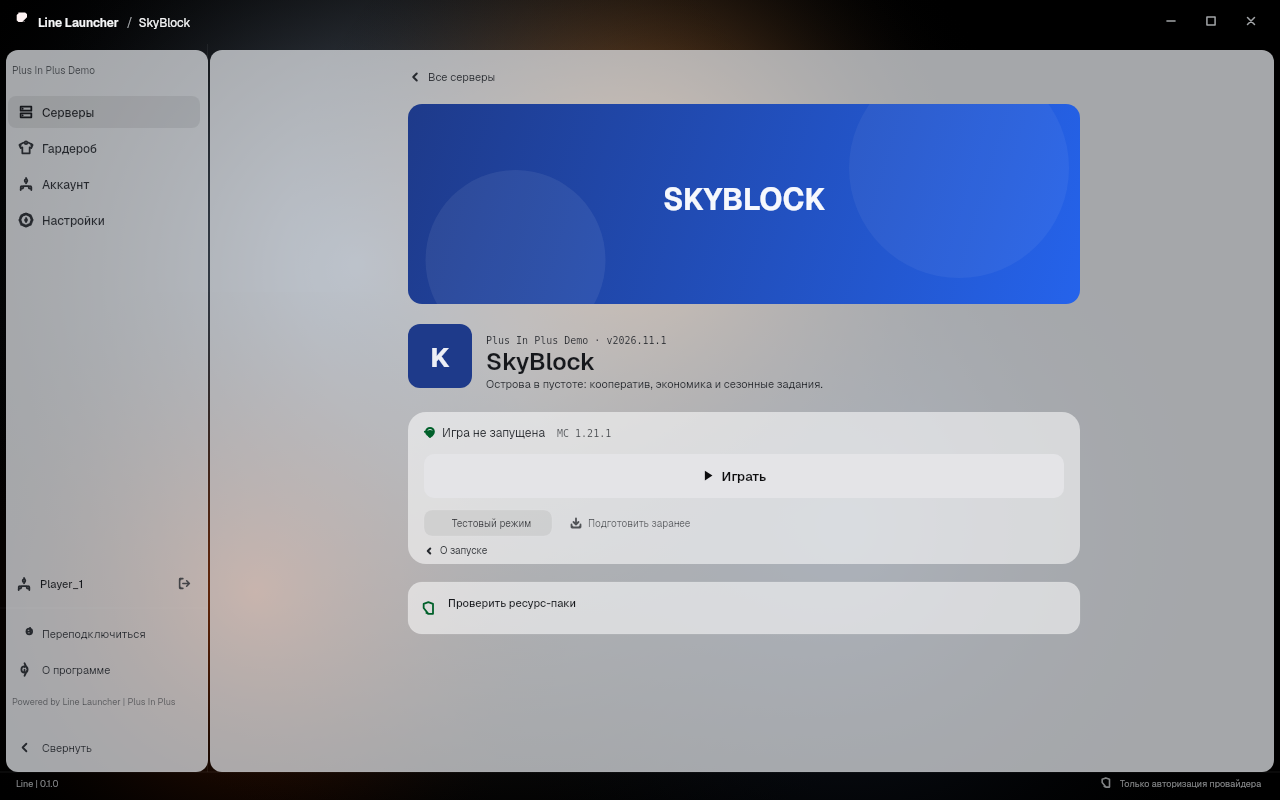
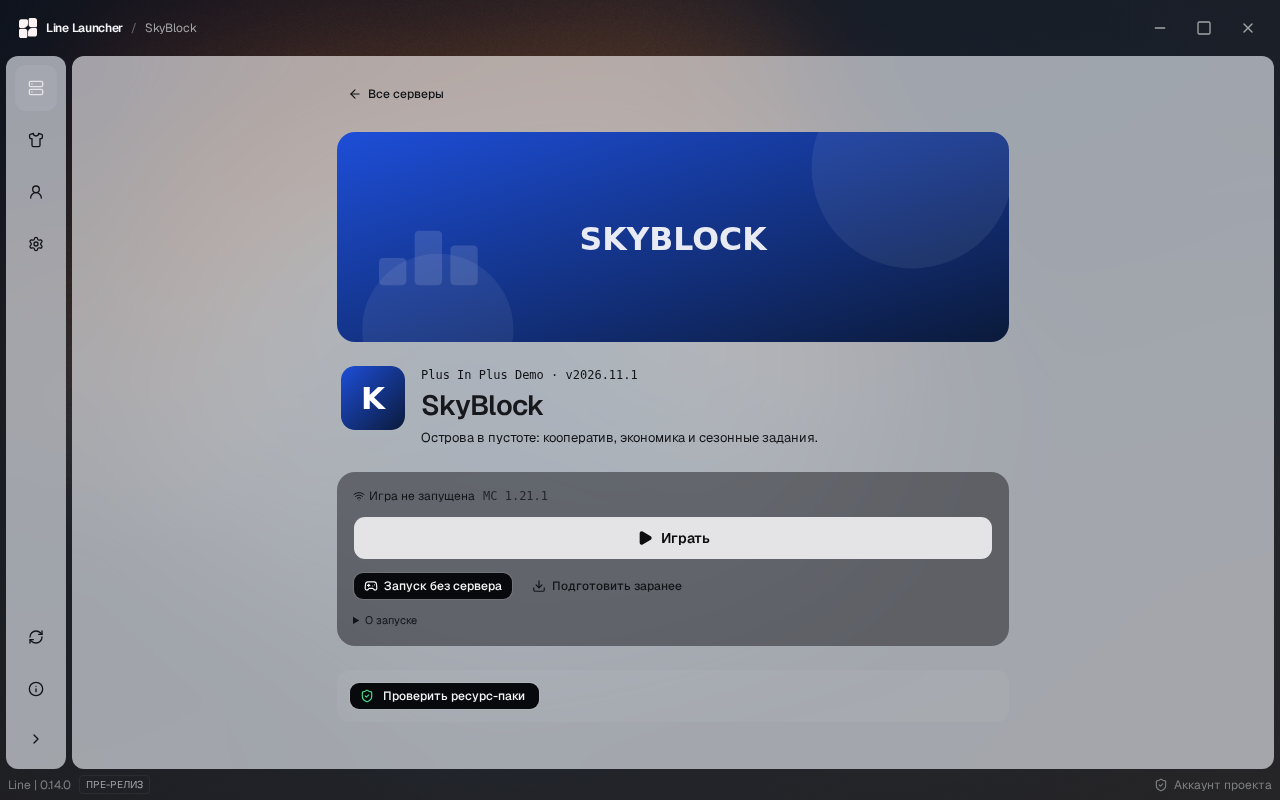
Настоящие скриншоты React-компонентов с фоном «Медный куст»
Прошлый коммит обновил галерею офлайн-рендером — токен-аппроксимацией.
Эти снимки сняты браузером с живых компонентов: настоящие иконки,
свёрнутая рейка, реальные состояния, шейдерный фон.

Как удалось запустить браузер в песочнице, где нет ни Chrome, ни прав на
apt:

- `@sparticuz/chromium` (npm) даёт бинарник Chromium;
- ему не хватало `libnss3/libnspr4/libplc4/libplds4`. `libnss3` и
  `libnssutil3` взяты из `chrome-aws-lambda`, `libnspr4` собран из
  исходников `mozilla/nspr` (gcc есть), `libplc4`/`libplds4` — оттуда же;
- `npm run screenshots` уважает `CHROMIUM_PATH`, поэтому правок в скрипте
  не потребовалось:
  `LD_LIBRARY_PATH=… CHROMIUM_PATH=/tmp/chromium npm run screenshots`

Найдено и исправлено по дороге:

- мок `get_settings` не отдавал `backdrop`, поэтому все снимки снимались
  с дефолтным фоном, а не с «Медным кустом». Добавлено
  `backdrop: "copper"`.
- панель при 0.72 гасила фон и читалась как краска. 0.66 — баланс:
  цветное поле видно сквозь стекло, текст держится.
- `--glass-shell-ink-soft` 0.28 давал 3.0:1 на композите; 0.19 поднял
  вторичный текст до 5.3:1, основной — 6.65:1.

Проверено: скрипт отработал без ошибок страницы (0 page errors),
tsc чисто, 390 тестов (1 пропущен), сборка EXIT 0.

diff --git a/src/index.css b/src/index.css
@@ -133,18 +133,24 @@
    * cast, so the pane reads as glass rather than as paper, and the ink on it
    * stays dark. Alpha 0.62 is where the pane is solid enough to hold body copy
    * and still shows the field moving behind it. */
-  /* 0.60 is the floor for legibility. The sheet is translucent, so its
-   * composite follows whatever the backdrop is doing underneath: over the dark
-   * part of the field 0.55 landed at rgb(133,138,143), where the quiet text slot
-   * could not reach 4.5:1 however dark the ink got. 0.72 holds body copy on
-   * every part of the field and still shows the copper moving behind it. */
-  --glass-surface-shell: rgba(228, 231, 236, 0.72);
+  /* The shell pane has to do two jobs at once: read as light glass over a
+   * moving colour field, and hold body copy wherever the field happens to be
+   * dark. Those pull in opposite directions.
+   *
+   * 0.55 lost the second job — over the dark part of a backdrop the composite
+   * fell to rgb(133,138,143), where the quiet text slot could not reach 4.5:1
+   * however dark the ink got. 0.78 lost the first: the pane read as painted
+   * paper and the backdrop disappeared.
+   *
+   * 0.68 is the balance: enough sheet for the text, enough transparency that
+   * the colour field is visibly moving behind it. */
+  --glass-surface-shell: rgba(230, 233, 238, 0.66);
   --glass-shell-ink: oklch(0.21 0.008 265);
   /* 0.38 measured 1.7:1 against the pane as it composites over a dark
    * backdrop, because the sheet is translucent and the field behind it pulls
    * the composite down. 0.28 is where the quiet slot clears 4.5:1 on the
    * darkest the pane gets. */
-  --glass-shell-ink-soft: oklch(0.28 0.01 265);
+  --glass-shell-ink-soft: oklch(0.19 0.01 265);
   /* State colours, dark enough to read on the light pane. The canvas pairs are
    * tuned for `#08090c`; `oklch(0.8 0.17 155)` on a light sheet measures about
    * 1.3:1, so «проверена» would be drawn in a colour the eye cannot separate
